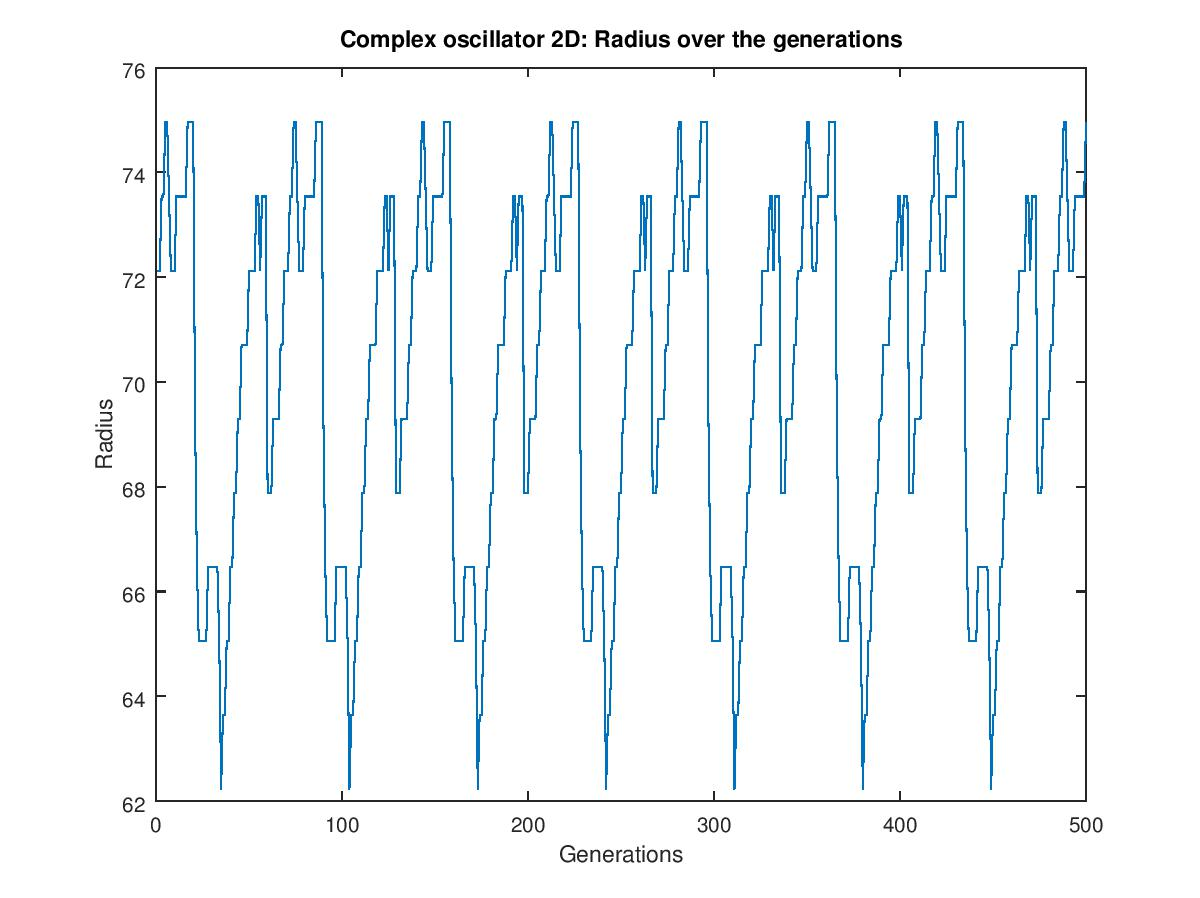
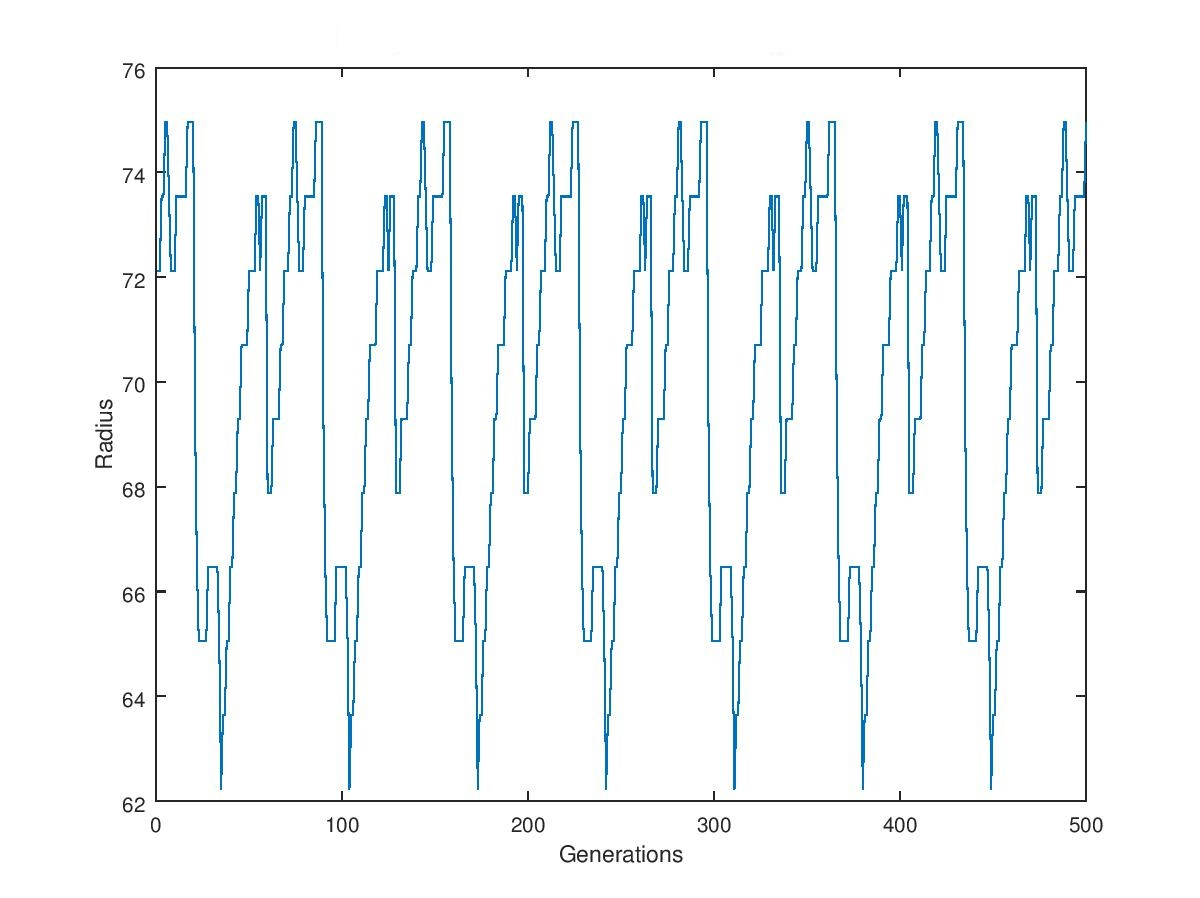
removed titles from graphs

Changed region(s): [[0.2775, 0.0312, 0.7708, 0.0624]]

diff --git a/src/main/java/utils/LifParser.java b/src/main/java/utils/LifParser.java
@@ -1,13 +1,10 @@
 package utils;
 
 import com.google.common.io.Files;
-import com.sun.javafx.binding.StringFormatter;
 import javafx.util.Pair;
-import tp1.Point2D;
 import tp2.Life2D;
 
 import java.io.File;
-import java.io.FileReader;
 import java.io.IOException;
 import java.nio.charset.Charset;
 import java.util.ArrayList;
